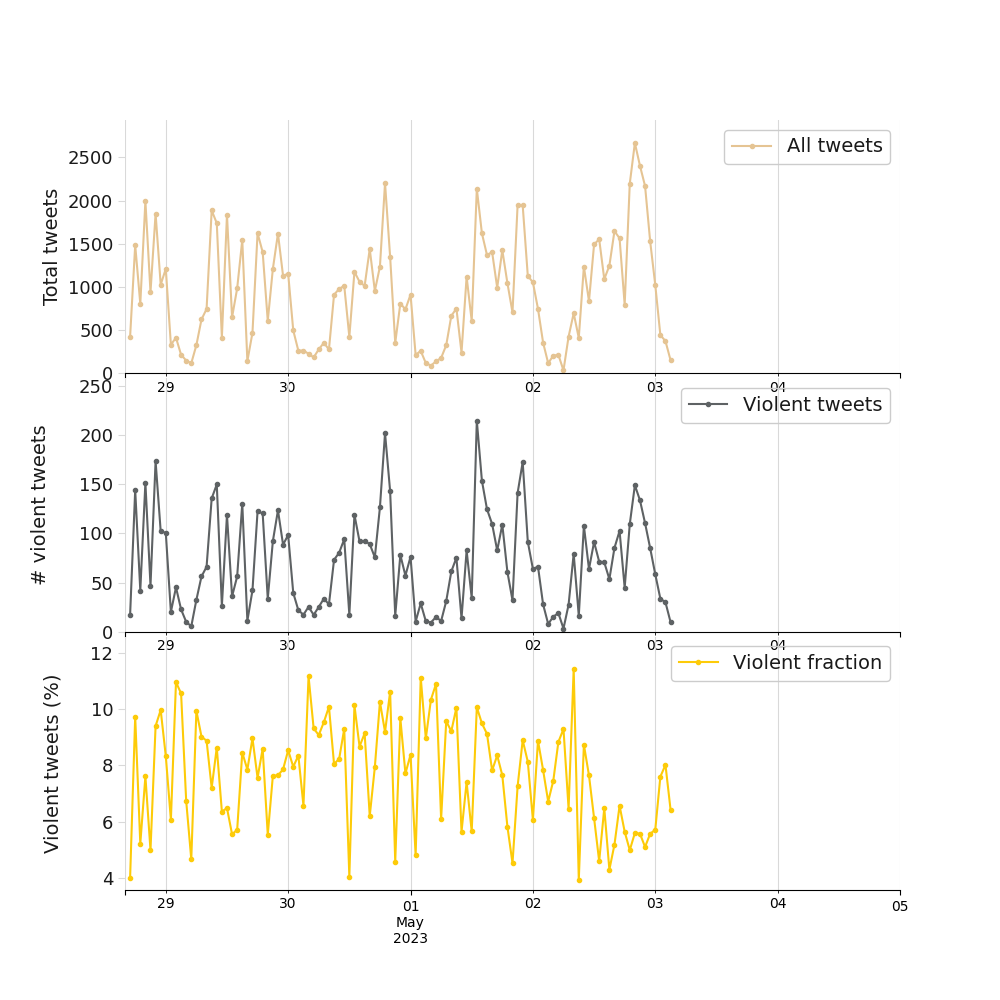
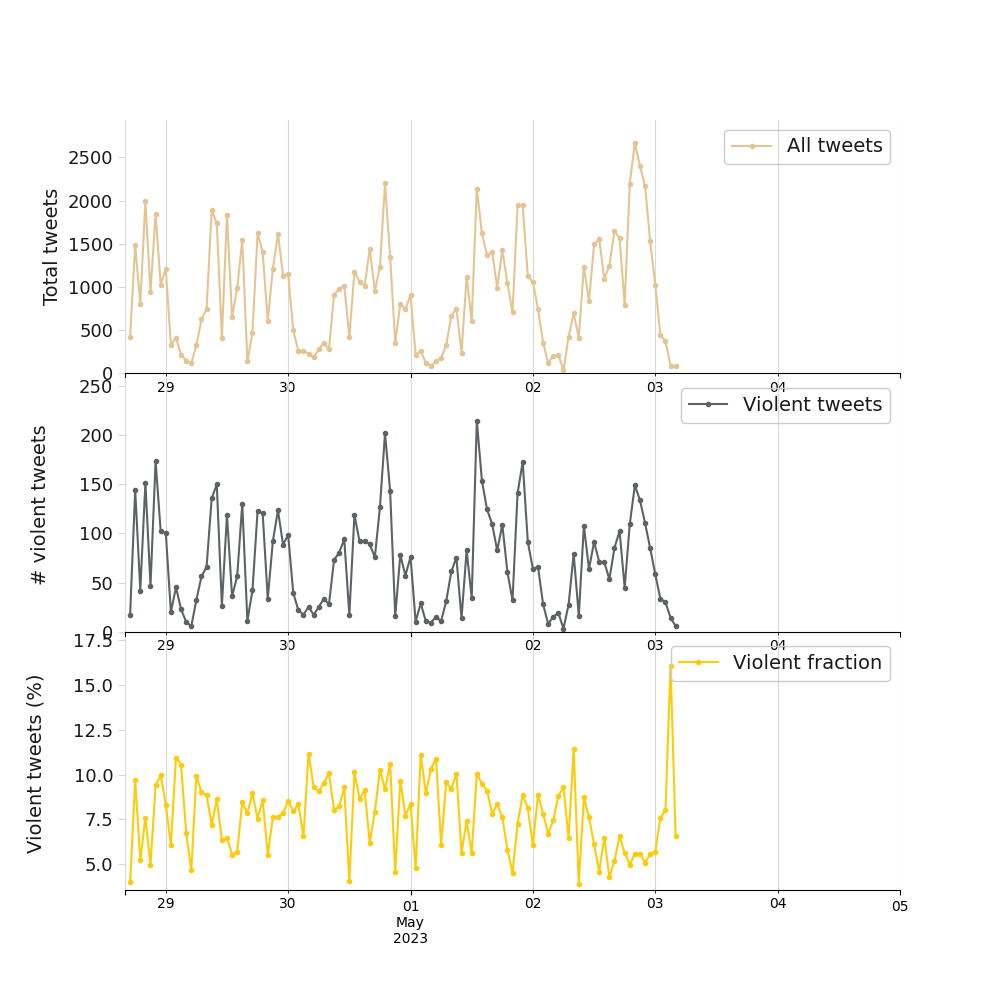
Auto-update webpage data >> 2023-05-03_04:00:08

diff --git a/assets/js/data.js b/assets/js/data.js
@@ -1,1 +1,1 @@
-data = '{"total_counts": 7471, "yesterday_counts": 1604, "time_series_plot": "../../assets/img/graficos/tweets_agressivos_por_dia_feminino.png", "last_update": "2023-05-03T03:00:08"}'
+data = '{"total_counts": 7481, "yesterday_counts": 1604, "time_series_plot": "../../assets/img/graficos/tweets_agressivos_por_dia_feminino.png", "last_update": "2023-05-03T04:00:08"}'
